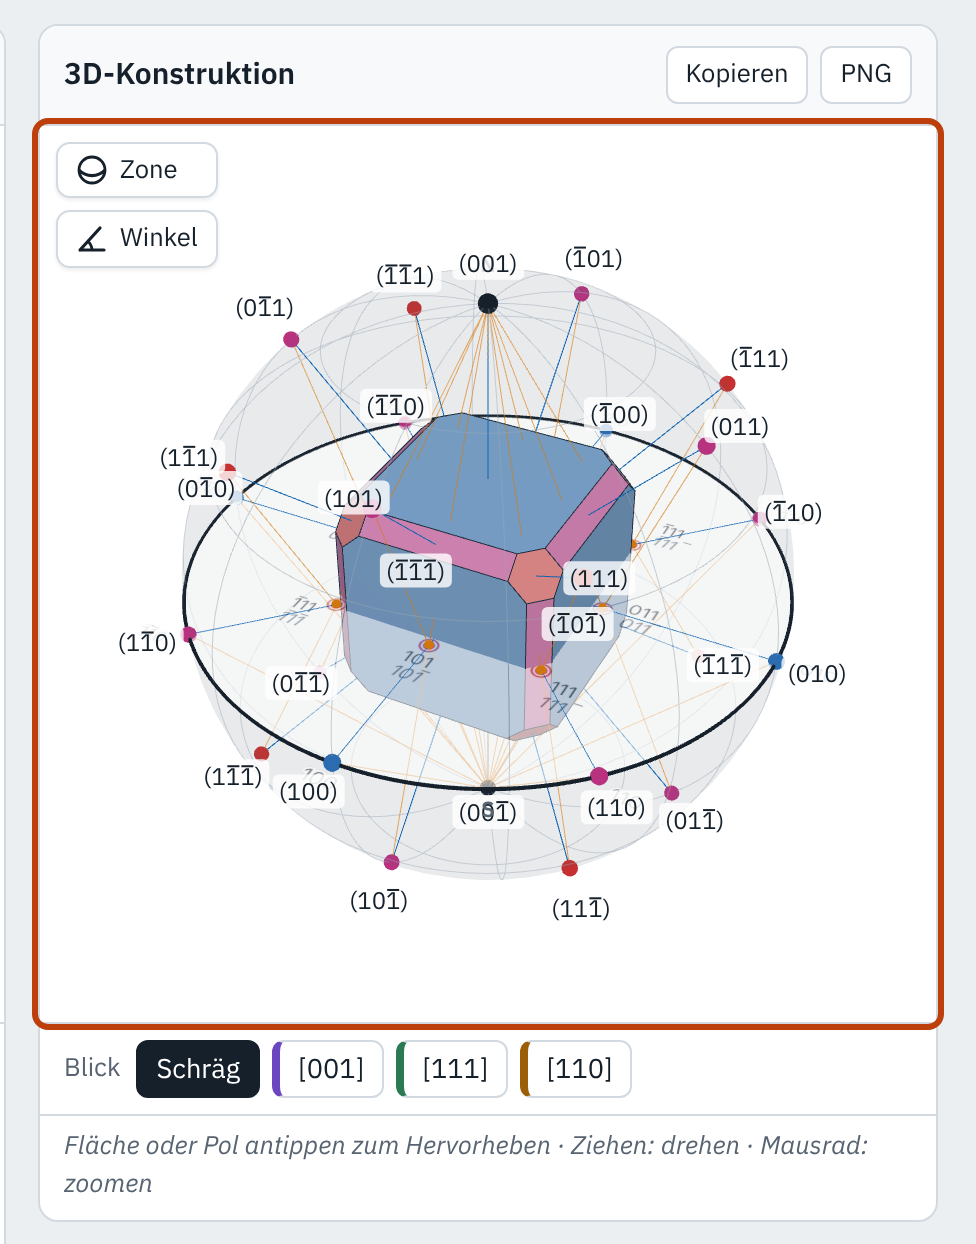
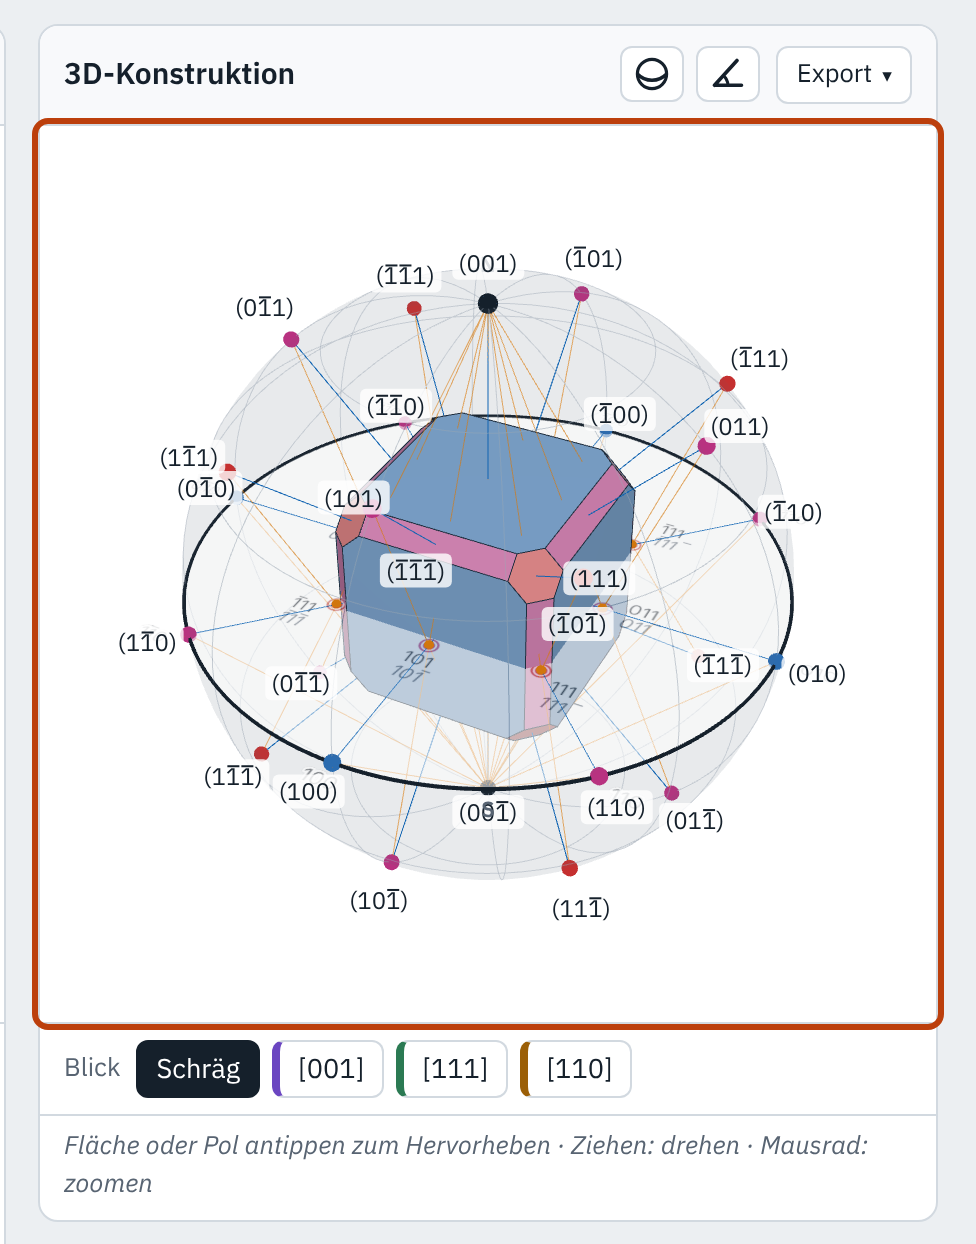
Seitenleiste und Tafel: Werkzeuge im Kopf der Tafel, Anleitungstexte ins ⓘ
Zone und Winkel als Symbol im Kopf der Tafeln (der Untertitel bricht bei
schmalen Tafeln um); Anleitungstexte aus der Seitenleiste ins ⓘ, in Tooltip
oder Legende. Hilfebilder neu erzeugt. Zu crystallography-common#130,
Closes #140 (Thomas, 12.11.2026).

Claude-Session: https://claude.ai/code/session_01L8SY93nYCKAEPCB1K6DoTB

Changed region(s): [[0.6455, 0.0305, 0.8914, 0.0916], [0.0615, 0.1222, 0.2152, 0.2138]]

diff --git a/index.html b/index.html
@@ -24,13 +24,12 @@
    Bausteine der Werkbank, auch die Anordnung der Tafeln (Tafel a: Stereogramm, b: 3D), stehen in
    lib/common/css/app.css. */
 .stereo-wrap { position: relative; }
-.stereo-tools { position: absolute; top: 8px; left: 8px; flex-direction: column; gap: 6px; flex-wrap: nowrap; }
-/* Werkzeuge Zone und Winkel: gewählt, gesperrt und Hover aus .tools in lib/common/css/app.css (Leitfaden Abschn. 5.2,
-   #93); hier nur Lage über der Tafel, Symbol neben dem Text und Schatten */
-.stereo-tools button {
-  display: inline-flex; align-items: center; gap: 6px; color: var(--ink);
-  border-radius: 7px; padding: 4px 9px; font-size: 0.8rem; box-shadow: 0 1px 2px rgb(0 0 0 / 0.08);
-}
+/* Werkzeuge Zone und Winkel im Kopf der Tafel, als Symbol (Leitfaden Abschn. 5.1, crystallography-common#130); gewählt,
+   gesperrt, Hover und Grösse aus .tools button.sym in lib/common/css/app.css. Der Untertitel bricht um, bevor ein Knopf
+   in eine eigene Zeile rutscht (iPad bei 1024 px). */
+.stereo-tools { flex-wrap: nowrap; }
+.panel-head .t { margin-right: auto; flex: 1 1 100px; min-width: 0; }
+.panel-head .t small { display: inline-block; }
 .lg .sym-icon { flex: none; }
 /* Blickrichtungen: Infobox und Schalter in der 3D-Ansicht */
 .dirlist { display: grid; gap: 8px 18px; grid-template-columns: repeat(auto-fill, minmax(230px, 1fr)); }
@@ -54,7 +53,7 @@
 .dir-tools button[aria-pressed="false"] { opacity: 0.55; text-decoration: line-through; border-style: dashed; }
 .dir-tools button[aria-pressed="false"] .sw { background: transparent; border: 1.5px solid var(--dc, var(--muted)); }
 @media (pointer: coarse) {
-  .stereo-tools button, .dir-tools button, .viewbar button { min-height: 40px; }
+  .dir-tools button, .viewbar button { min-height: 40px; }
 }
 #v3d-hint:not(:empty)::after { content: " · "; }
 /* Ansichten der 3D-Konstruktion: schräg und entlang der drei Blickrichtungen */
@@ -180,7 +179,6 @@
         <div class="field">
           <label for="form-select">Form (nach Punktgruppe)</label>
           <select id="form-select"></select>
-          <p class="hintline" id="form-hint">Je Punktgruppe die allgemeine Form und die Formen mit der Punktgruppe als Eigensymmetrie, im trigonalen System auch das trigonale und das hexagonale Prisma (Eigensymmetrie hexagonal). Alle Formen mit „Flächensymmetrie zeigen“.</p>
         </div>
         <div class="field">
           <label for="preset-select">Projektionsrichtung</label>
@@ -213,8 +211,6 @@
             <label for="pg-phi">Azimut φ (ab →, im Uhrzeigersinn)</label><output id="pg-phi-out"></output>
             <input type="range" id="pg-phi" min="0" max="359.5" step="0.5">
           </div>
-          <p class="hintline">Wie bei Borchardt-Ott: ρ zählt auf der oberen Halbkugel vom Nordpol (Zentrum), auf der unteren vom Südpol mit negativem Vorzeichen. φ zählt vom rechten Rand (→, bei orthogonalen Achsen die b-Achse) im Uhrzeigersinn; (100) liegt bei 90°.</p>
-          <p class="hintline">Im Stereogramm: Ausgangspol ziehen oder an eine Stelle tippen; Ausgangspol antippen wechselt die Halbkugel. Nahe an einer Achse oder Spiegelebene rastet er ein (spezielle Lage).</p>
         </div>
       </details>
 
@@ -234,9 +230,7 @@
               </div>
               <div class="range"><label for="stretch-s">Faktor</label><output id="stretch-s-out"></output>
                 <input type="range" id="stretch-s" min="0.5" max="2" step="0.01"></div>
-              <p class="hintline">Faktor über 1 streckt den Kristall, unter 1 staucht ihn, bezogen auf das unverzerrte Gitter.</p>
             </div>
-            <p class="hintline">Die Infobox zeigt, welche Punktgruppe übrig bleibt.</p>
           </div>
           <p class="group-title" id="lat-title" hidden>Gitterparameter</p>
           <p class="hintline" id="lat-fixed">Kubisch: Das Gitter hat keine freien Parameter.</p>
@@ -268,7 +262,6 @@
             <div class="range"><label for="poly-aux">Abstand der Ergänzungsformen</label><output id="poly-aux-out"></output>
               <input type="range" id="poly-aux" min="0.3" max="3" step="0.05"></div>
           </div>
-          <p class="hintline">Die Gestalt ändert nur den Körper, nicht das Stereogramm: Die Pole hängen nur von den Flächennormalen ab.</p>
           <button class="linkbtn" id="shape-reset" type="button">Gestalt zurücksetzen</button>
         </div>
       </details>
@@ -306,14 +299,14 @@
       <div class="panel-head">
         <div class="figswitch" role="group" aria-label="Ansicht"><button type="button" data-fig="a">Stereogramm</button><button type="button" data-fig="b">3D</button></div>
         <span class="t">Stereogramm<small id="stereo-sub">Projektion ∥ c</small></span>
+        <div class="tools stereo-tools" id="stereo-tools" role="toolbar" aria-label="Werkzeuge" hidden>
+          <button class="tool-toggle sym" data-tool="zone" id="zone-btn" aria-label="Zone" type="button" aria-pressed="false"><svg viewBox="-8 -8 16 16" aria-hidden="true"><circle r="6.5" fill="none" stroke="currentColor" stroke-width="1.4"/><path d="M-6.5 0 A 9 9 0 0 0 6.5 0" fill="none" stroke="currentColor" stroke-width="1.6"/></svg></button>
+          <button class="tool-toggle sym" data-tool="angle" id="angle-btn" aria-label="Winkel" type="button" aria-pressed="false"><svg viewBox="-8 -8 16 16" aria-hidden="true"><path d="M-6 5 L6 5 M-6 5 L4 -6" fill="none" stroke="currentColor" stroke-width="1.6" stroke-linecap="round"/><path d="M0 5 A 6 6 0 0 0 -2.2 0.6" fill="none" stroke="currentColor" stroke-width="1.4"/></svg></button>
+        </div>
         <div class="tools export"><button type="button" class="exportknopf" id="export-stereo">Export</button></div>
       </div>
       <div class="stereo-wrap">
         <svg id="stereo" viewBox="0 0 520 520" role="img" aria-label="Stereogramm"></svg>
-        <div class="tools stereo-tools" id="stereo-tools" role="toolbar" aria-label="Werkzeuge" hidden>
-          <button class="tool-toggle" data-tool="zone" id="zone-btn" type="button" aria-pressed="false" title="Zone bestimmen: zwei Pole hier oder zwei Flächen in der 3D-Ansicht antippen"><svg width="16" height="16" viewBox="-8 -8 16 16" aria-hidden="true"><circle r="6.5" fill="none" stroke="currentColor" stroke-width="1.4"/><path d="M-6.5 0 A 9 9 0 0 0 6.5 0" fill="none" stroke="currentColor" stroke-width="1.6"/></svg>Zone</button>
-          <button class="tool-toggle" data-tool="angle" id="angle-btn" type="button" aria-pressed="false" title="Winkel messen: zwei Pole oder Flächen antippen"><svg width="16" height="16" viewBox="-8 -8 16 16" aria-hidden="true"><path d="M-6 5 L6 5 M-6 5 L4 -6" fill="none" stroke="currentColor" stroke-width="1.6" stroke-linecap="round"/><path d="M0 5 A 6 6 0 0 0 -2.2 0.6" fill="none" stroke="currentColor" stroke-width="1.4"/></svg>Winkel</button>
-        </div>
       </div>
       <div class="legend" id="legend"></div>
     </figure>
@@ -322,15 +315,15 @@
       <div class="panel-head">
         <div class="figswitch" role="group" aria-label="Ansicht"><button type="button" data-fig="a">Stereogramm</button><button type="button" data-fig="b">3D</button></div>
         <span class="t">3D-Konstruktion</span>
+        <div class="tools stereo-tools" id="v3d-tools" role="toolbar" aria-label="Werkzeuge" hidden>
+          <button class="tool-toggle sym" data-tool="zone" id="zone-btn-3d" aria-label="Zone" type="button" aria-pressed="false"><svg viewBox="-8 -8 16 16" aria-hidden="true"><circle r="6.5" fill="none" stroke="currentColor" stroke-width="1.4"/><path d="M-6.5 0 A 9 9 0 0 0 6.5 0" fill="none" stroke="currentColor" stroke-width="1.6"/></svg></button>
+          <button class="tool-toggle sym" data-tool="angle" id="angle-btn-3d" aria-label="Winkel" type="button" aria-pressed="false"><svg viewBox="-8 -8 16 16" aria-hidden="true"><path d="M-6 5 L6 5 M-6 5 L4 -6" fill="none" stroke="currentColor" stroke-width="1.6" stroke-linecap="round"/><path d="M0 5 A 6 6 0 0 0 -2.2 0.6" fill="none" stroke="currentColor" stroke-width="1.4"/></svg></button>
+        </div>
         <div class="tools export"><button type="button" class="exportknopf" id="export-3d">Export</button></div>
       </div>
       <div class="stereo-wrap">
         <div id="view3d"></div>
         <div class="dir-tools" id="v3d-dirs" role="group" aria-label="Blickrichtungen in 3D ein- und ausblenden" hidden></div>
-        <div class="tools stereo-tools" id="v3d-tools" role="toolbar" aria-label="Werkzeuge" hidden>
-          <button class="tool-toggle" data-tool="zone" id="zone-btn-3d" type="button" aria-pressed="false" title="Zone bestimmen: zwei Flächen oder Pole hier oder zwei Pole im Stereogramm antippen"><svg width="16" height="16" viewBox="-8 -8 16 16" aria-hidden="true"><circle r="6.5" fill="none" stroke="currentColor" stroke-width="1.4"/><path d="M-6.5 0 A 9 9 0 0 0 6.5 0" fill="none" stroke="currentColor" stroke-width="1.6"/></svg>Zone</button>
-          <button class="tool-toggle" data-tool="angle" id="angle-btn-3d" type="button" aria-pressed="false" title="Winkel messen: zwei Pole oder Flächen antippen"><svg width="16" height="16" viewBox="-8 -8 16 16" aria-hidden="true"><path d="M-6 5 L6 5 M-6 5 L4 -6" fill="none" stroke="currentColor" stroke-width="1.6" stroke-linecap="round"/><path d="M0 5 A 6 6 0 0 0 -2.2 0.6" fill="none" stroke="currentColor" stroke-width="1.4"/></svg>Winkel</button>
-        </div>
       </div>
       <div class="viewbar" role="group" aria-label="Ansicht der 3D-Konstruktion"><span class="cap">Blick</span><button data-view="oblique" id="view-oblique" type="button" aria-pressed="false">Schräg</button><span id="view-dirs" class="viewdirs"></span></div>
       <div class="panel-foot"><span id="v3d-hint"></span><span class="only-fine">Ziehen: drehen · Mausrad: zoomen</span><span class="only-coarse">Ein Finger: drehen · zwei Finger: zoomen</span></div>

diff --git a/js/hilfetexte.js b/js/hilfetexte.js
@@ -75,10 +75,14 @@ export const SECTIONS = [
     intro: 'Punktgruppe antippen: Das Stereogramm zeigt ihr Symmetriegerüst. Gruppen mit zwei Aufstellungen (z. B. 32) bieten darunter die Wahl der Aufstellung an.',
     ids: [],
   },
-  { heading: '#ctl-pg-opts > summary', ids: ['pg-elements', 'pg-object', 'pg-theta', 'pg-phi', 'angle-btn'] },
+  {
+    heading: '#ctl-pg-opts > summary',
+    intro: 'Zählweise wie bei Borchardt-Ott: ρ auf der oberen Halbkugel vom Nordpol (Zentrum), auf der unteren vom Südpol mit negativem Vorzeichen; φ vom rechten Rand (→, bei orthogonalen Achsen die b-Achse) im Uhrzeigersinn, (100) liegt bei 90°. Im Stereogramm lässt sich der Ausgangspol ziehen; nahe einer Achse oder Spiegelebene rastet er ein (spezielle Lage).',
+    ids: ['pg-elements', 'pg-object', 'pg-theta', 'pg-phi', 'angle-btn'],
+  },
   {
     heading: '#ctl-poly > h2',
-    intro: 'Pol oder Fläche antippen hebt beide hervor: Jede Fläche hat genau einen Pol.',
+    intro: 'Pol oder Fläche antippen hebt beide hervor: Jede Fläche hat genau einen Pol. Die Auswahl „Form“ bietet je Punktgruppe die allgemeine Form und die Formen mit der Punktgruppe als Eigensymmetrie an, im trigonalen System auch das trigonale und das hexagonale Prisma (Eigensymmetrie hexagonal); alle Formen mit „Flächensymmetrie zeigen“.',
     ids: ['ex-select', 'sys-select', 'form-select', 'preset-select', 'poly-labels', 'poly-frame', 'poly-bravais', 'poly-facesym'],
   },
   {
@@ -88,7 +92,7 @@ export const SECTIONS = [
   },
   {
     heading: '#ctl-poly-shape > summary',
-    intro: 'Die Gestalt ändert nur den Körper, nicht das Stereogramm.',
+    intro: 'Die Gestalt ändert nur den Körper, nicht das Stereogramm: Die Pole hängen nur von den Flächennormalen ab.',
     ids: ['poly-size', 'ctl-ex-dists', 'poly-open', 'poly-aux'],
   },
   {

diff --git a/js/main.js b/js/main.js
@@ -296,7 +296,6 @@ function refreshPolyControls() {
   buildFormSelect();
   buildExDists();
   $('row-broken').hidden = !!currentExample();
-  syncFormHint();
   const presets = orientationPresets(sys);
   auswahl('preset-select').innerHTML = presets.map((p) => `<option value="${p.id}">${p.name}</option>`).join('');
   if (!presets.some((p) => p.id === state.poly.presetId)) state.poly.presetId = presets[0].id;
@@ -690,7 +689,6 @@ async function snapshot3d() {
 }
 
 let syncToolBtns = () => {};
-let syncFormHint = () => {};
 let pending = false;
 function render() {
   if (pending) return;
@@ -1502,9 +1500,7 @@ function init() {
   bindCheck('poly-lower', state.poly, 'showLower');
   bindCheck('poly-frame', state.poly, 'frame');
   bindCheck('poly-facesym', state.poly, 'faceSym');
-  syncFormHint = () => { $('form-hint').hidden = state.poly.faceSym || !!currentExample(); };
-  eingabe('poly-facesym').addEventListener('change', () => { buildFormSelect(); syncFormHint(); });
-  syncFormHint();
+  eingabe('poly-facesym').addEventListener('change', () => { buildFormSelect(); });
   // Werkzeuge „Zone“ und „Winkel“: je ein Button am Stereogramm und in der 3D-Ansicht,
   // gemeinsamer Zustand; höchstens ein Werkzeug aktiv
   syncToolBtns = () => {

diff --git a/CHANGELOG.md b/CHANGELOG.md
@@ -8,8 +8,9 @@ Das Format folgt [Keep a Changelog](https://keepachangelog.com/de/1.1.0/), die V
 
 ### Geändert
 
+- **Seitenleiste und Tafel** (crystallography-common#130, #140, Entscheidung Thomas, 12.11.2026): Die Werkzeuge „Zone“ und „Winkel“ stehen als Symbol im Kopf der Tafeln statt oben links in der Zeichnung; der Kopf bleibt einzeilig (bei schmalen Tafeln bricht der Untertitel um). Anleitungstexte aus der Seitenleiste stehen im ⓘ bzw. in Tooltip und Legende: Zählweise von ρ und φ, Ziehen des Ausgangspols, Auswahl der Formen, Streckung, Gestalt. Am Laptop (1440 × 900) ist die Seitenleiste in „Punktgruppen“ 899 statt 1194 px hoch, in „Kristallformen“ 866 statt 982 px (passt auf einen Bildschirm).
 - **Export als ein Knopf mit Menü** (crystallography-common#130, Entscheidung Thomas, 12.11.2026): Über dem Stereogramm und der 3D-Konstruktion je ein Knopf „Export ▾“ statt der Knöpfe „Kopieren“, „SVG“, „PNG“; das Menü nennt „Kopieren (PNG)“, „SVG-Datei speichern“ (nur Stereogramm) und „PNG-Datei speichern“, mit Tastatur bedienbar.
-- **Gemeinsame Grundlage** auf crystallography-common v0.19.0: Export-Menü als gemeinsamer Baustein, Leitfaden „Seitenleiste und Tafel“ (#130); in der Gruppenwahl ist die Spalte der Kristallsysteme schmaler (78 statt 86 px), „Tetragonal“ und „Hexagonal“ brauchen zwei statt drei Zeilen, die Seitenleiste wird am Laptop und auf dem iPad quer 67 px kürzer.
+- **Gemeinsame Grundlage** auf crystallography-common v0.19.0: Export-Menü als gemeinsamer Baustein, Leitfaden „Seitenleiste und Tafel“ (#130); in der Gruppenwahl ist die Spalte der Kristallsysteme schmaler (78 statt 86 px), „Tetragonal“ und „Hexagonal“ brauchen zwei statt drei Zeilen, die Seitenleiste in „Punktgruppen“ wird am Laptop und auf dem iPad 67 px kürzer.
 - **Gemeinsame Grundlage** auf crystallography-common v0.17.0: Der Pfad eines vorhandenen Chromium für die Werkzeuge heisst `CHROMIUM_PFAD` statt `KONTRASTE_CHROME` und gilt jetzt auch für das Skript-PDF (`tools/skript-pdf.mjs`; crystallography-common#125).
 
 ## [1.15.0] - 2026-11-11

diff --git a/CLAUDE.md b/CLAUDE.md
@@ -63,6 +63,13 @@ und Speicher noch nicht stabil, Leitfaden Abschn. 8; Thomas, 11.11.2026, crystal
   Schritte des Reglers zählen ab ln(Minimum) und treffen 1 nicht; der Wert wird deshalb auf 0,01 gerundet wie im
   Link, und der bewegte Regler wird danach nicht neu gesetzt (`reglerWert`, `syncLatSliders` in `js/main.js`).
 - **Einrasten** des Ausgangspols immer (Achse 4°, Spiegelebene 3°), kein Schalter.
+- **Seitenleiste und Tafel** (Thomas, 12.11.2026, #140, crystallography-common#130, Leitfaden Abschn. 5.1): Zone und
+  Winkel sind Werkzeuge auf der Zeichnung und stehen deshalb im Kopf der Tafel, als Symbol mit Name im `aria-label`; mit
+  Text bräche der Kopf schon bei 1280 px Fensterbreite um. Damit er auch bei 1024 px (iPad Pro hochkant, Tafeln 320 px)
+  einzeilig bleibt, bricht der Untertitel unter den Titel um (Wahl Thomas statt eines zweizeiligen Kopfs). Anleitungstexte
+  (Zählweise von ρ und φ, Ziehen des Ausgangspols, Hinweis zur Formauswahl, Streckung, Gestalt) stehen im ⓘ, in Tooltip
+  oder Legende; in der Seitenleiste bleiben Hinweise zum Zustand (kubisches Gitter ohne freie Parameter, ungültige Winkel,
+  gesperrte Regler).
 - **Bildexport** (24.10.; Menü seit crystallography-common#130, Thomas, 12.11.2026): Stereogramm als Kopie (PNG), SVG,
   PNG (2048 px); 3D als Kopie und PNG. Je Tafel ein Knopf „Export ▾“ mit Menü (`exportMenue`, Leitfaden Abschn. 4), statt
   der früheren Regel „kein Formatmenü“: Der Kopf der Tafel soll einzeilig bleiben. In der Vorschau (`STEREO_PREVIEW`) nur
